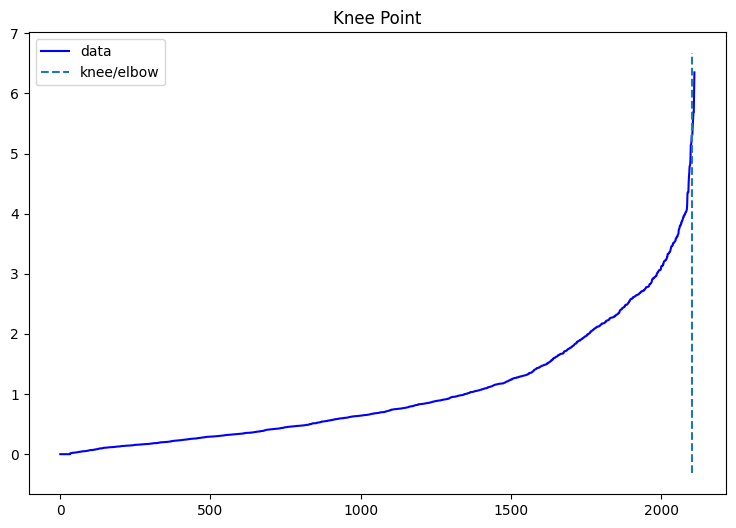
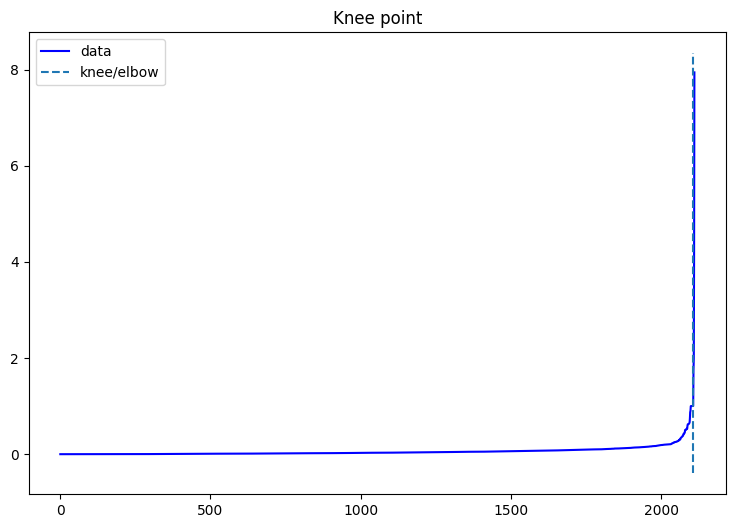
kmeans con scaler

diff --git a/clustering/kmeans.py b/clustering/kmeans.py
@@ -4,14 +4,13 @@ import matplotlib.pyplot as plt
 import matplotlib as mpl
 
 from yellowbrick.cluster import KElbowVisualizer
-from matplotlib import cm
 from sklearn.cluster import KMeans
 from time import time
 from sklearn import metrics
 from sklearn.metrics import silhouette_score, silhouette_samples
 from sklearn.pipeline import make_pipeline
 from sklearn.decomposition import PCA
-from sklearn.preprocessing import LabelEncoder
+from sklearn.preprocessing import LabelEncoder, StandardScaler
 
 
 def silhouette_analysis(range_n_clusters, X):
@@ -48,7 +47,7 @@ def silhouette_analysis(range_n_clusters, X):
         sample_silhouette_values = silhouette_samples(X, cluster_labels)
 
         y_lower = 10
-        colors = iter([plt.cm.Paired(i) for i in range(0,20)])
+        colors = iter([plt.cm.Paired(i) for i in range(0, 20)])
         list = []
         for i in range(n_clusters):
             # Aggregate the silhouette scores for samples belonging to
@@ -75,7 +74,6 @@ def silhouette_analysis(range_n_clusters, X):
 
             # Compute the new y_lower for next plot
             y_lower = y_upper + 10  # 10 for the 0 samples
-
 
         ax1.set_title("The silhouette plot for the various clusters.")
         ax1.set_xlabel("The silhouette coefficient values")
@@ -132,19 +130,21 @@ def silhouette_analysis(range_n_clusters, X):
     plt.show()
 
 
-
 def elbow_method(X):
+
     # Instantiate the clustering model and visualizer
     model = KMeans()
-    visualizer1 = KElbowVisualizer(model, k=(2, 10))
+    visualizer1 = KElbowVisualizer(model, k=(3, 10), metric='distortion')
     visualizer1.fit(X)
-    visualizer1.show(outpath="grafici/kelbow_distorsion.png")
+    visualizer1.show(outpath="grafici/kelbow_distortion.png")
 
-    visualizer2 = KElbowVisualizer(model, k=(2, 10), metric='calinski_harabasz')
+    model = KMeans()
+    visualizer2 = KElbowVisualizer(model, k=(3, 10), metric='calinski_harabasz')
     visualizer2.fit(X)
     visualizer2.show(outpath="grafici/kelbow_calinksi.png")
 
-    visualizer3 = KElbowVisualizer(model, k=(2, 10), metric='silhouette')
+    model = KMeans()
+    visualizer3 = KElbowVisualizer(model, k=(3, 9),metric='silhouette')
     visualizer3.fit(X)
     visualizer3.show(outpath="grafici/kelbow_silhouette.png")
 
@@ -212,6 +212,10 @@ data = data.drop("Nutritional Status", axis=1)
 number = LabelEncoder()
 data['Gender'] = number.fit_transform(data['Gender'])
 data['Transportation Used'] = number.fit_transform(data['Transportation Used'])
+
+scaler = StandardScaler()
+scaled_array = scaler.fit_transform(data)
+data = pd.DataFrame(scaled_array, columns=data.columns)
 
 elbow_method(data.values)
 
@@ -285,10 +289,10 @@ centroids = kmeans.cluster_centers_
 plt.scatter(
     centroids[:, 0],
     centroids[:, 1],
-    marker="x",
-    s=169,
+    marker="o",
+    s=60,
     linewidths=3,
-    color="w",
+    color="black",
     zorder=10,
 )
 plt.title("K-means clustering")
